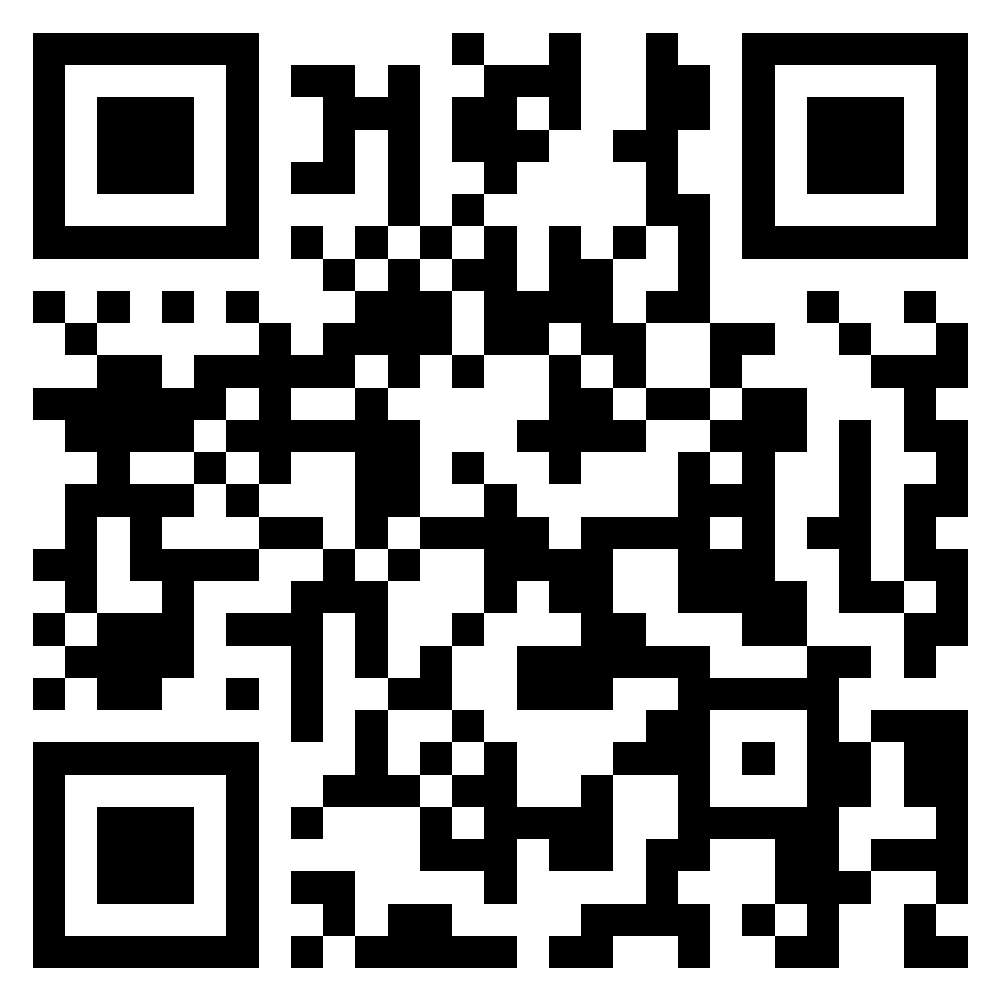
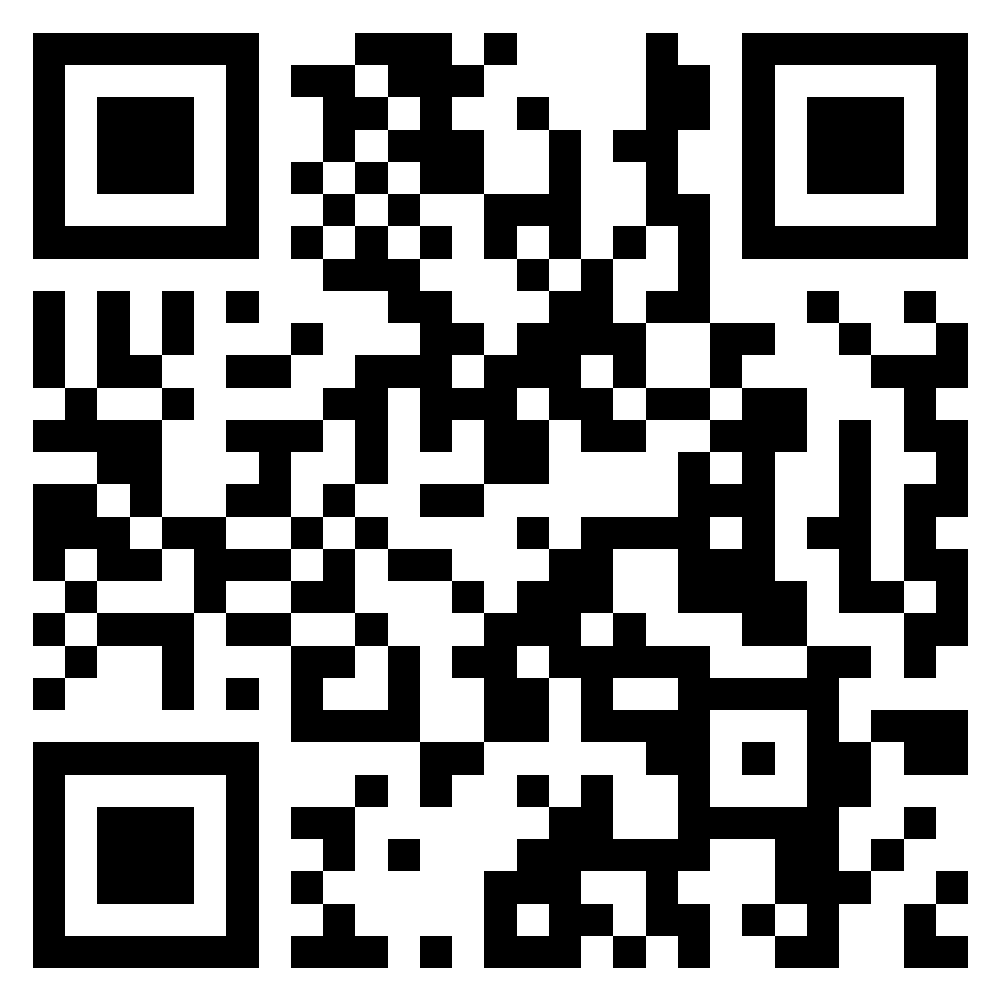
Tue Jan 27 13:48:56 EST 2026

diff --git a/index.html b/index.html
@@ -74,6 +74,11 @@
             border-left: 5px solid #ffd700;
         }
 
+        #attendance {
+            background: #f9f9f9;
+            border-left: 5px solid #643819;
+        }
+
         #contacts {
             background: #fff7e6;
             border-left: 5px solid #ffd700;
@@ -100,6 +105,7 @@
         <a href="#faq">FAQ</a>
         <a href="#schedule">Schedule</a>
         <a href="#ambassadors">Research Ambassadors</a>
+        <a href="#attendance">Attendance</a>
         <a href="#contacts">Contacts</a>
     </nav>
 
@@ -225,6 +231,18 @@
         </ul>
 
 
+    </section>
+
+    <section id="attendance">
+        <h2>Attendance</h2>
+
+        <div style="font-size: 120%;">
+        Attendance Link: <a href="https://go.rowan.edu/csrp-att" target="_blank">https://go.rowan.edu/csrp-att</a><br />
+        </div>
+
+        <div>
+        <img src="qr.png" width="360px" />
+        </div>
     </section>
 
     <section id="contacts">
